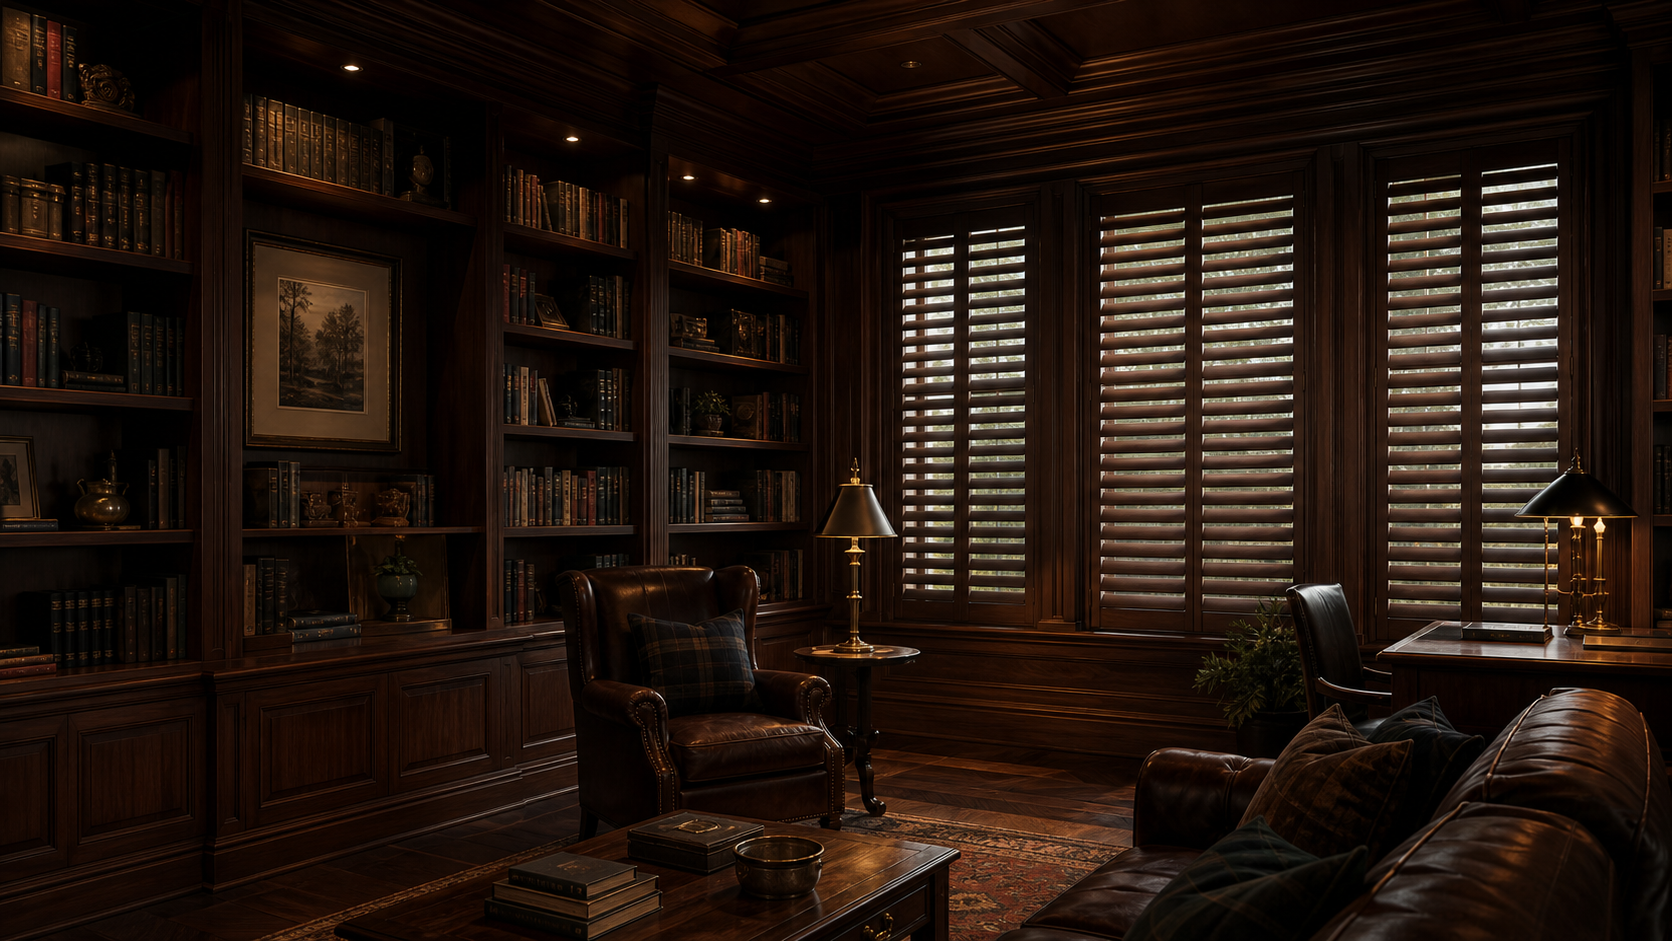
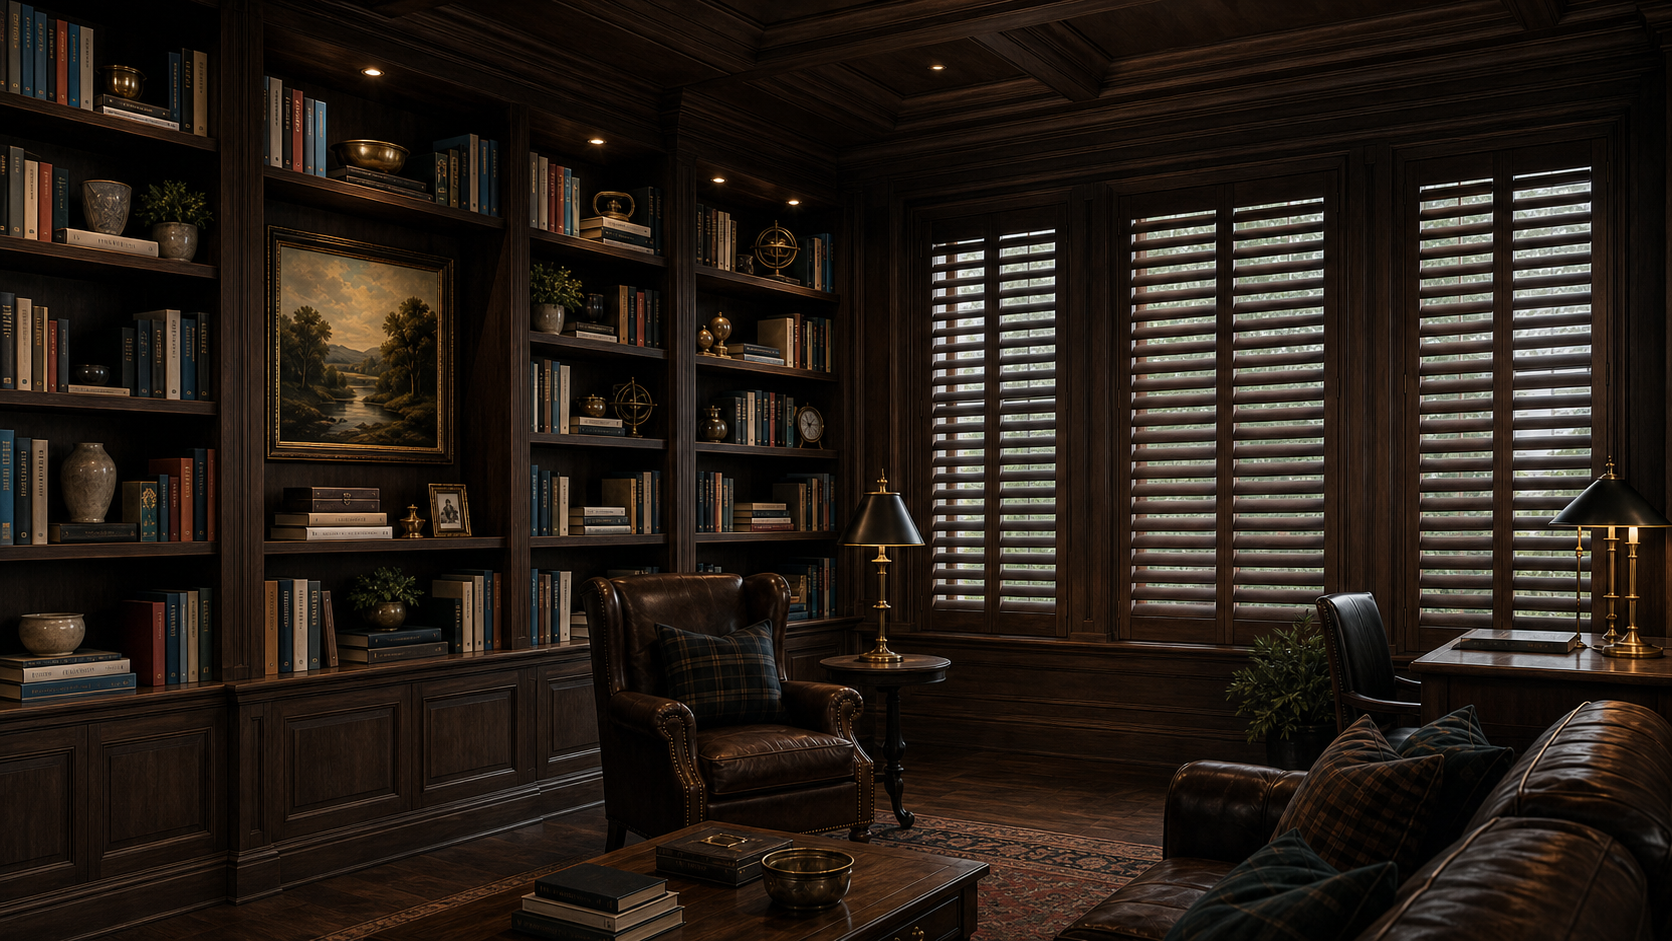
Prepare 805 site go-live updates

diff --git a/src/components/HeaderScrollState.tsx b/src/components/HeaderScrollState.tsx
@@ -2,6 +2,40 @@
 
 import { useEffect } from "react";
 
+const topRevealY = 8;
+const solidHeaderY = 48;
+const revealDelta = -4;
+
+type HeaderScrollClassState = {
+  isSolid: boolean;
+  shouldHide: boolean | null;
+};
+
+export function getHeaderScrollClassState(currentScrollY: number, lastScrollY: number): HeaderScrollClassState {
+  const normalizedScrollY = Math.max(currentScrollY, 0);
+  const scrollDelta = normalizedScrollY - Math.max(lastScrollY, 0);
+  const isAtTop = normalizedScrollY <= topRevealY;
+
+  if (isAtTop || scrollDelta < revealDelta) {
+    return {
+      isSolid: normalizedScrollY > solidHeaderY,
+      shouldHide: false
+    };
+  }
+
+  if (scrollDelta > 0) {
+    return {
+      isSolid: normalizedScrollY > solidHeaderY,
+      shouldHide: true
+    };
+  }
+
+  return {
+    isSolid: normalizedScrollY > solidHeaderY,
+    shouldHide: null
+  };
+}
+
 export function HeaderScrollState() {
   useEffect(() => {
     let frame = 0;
@@ -13,13 +47,13 @@ export function HeaderScrollState() {
     function updateHeaderState() {
       frame = 0;
       const currentScrollY = Math.max(window.scrollY, 0);
-      const scrollDelta = currentScrollY - lastScrollY;
+      const classState = getHeaderScrollClassState(currentScrollY, lastScrollY);
 
-      document.body.classList.toggle("site-header-solid", currentScrollY > 48);
+      document.body.classList.toggle("site-header-solid", classState.isSolid);
 
-      if (currentScrollY <= 96 || scrollDelta < -4) {
+      if (classState.shouldHide === false) {
         document.body.classList.remove("site-header-hidden");
-      } else if (scrollDelta > 6) {
+      } else if (classState.shouldHide === true) {
         document.body.classList.add("site-header-hidden");
       }
 

diff --git a/src/app/globals.css b/src/app/globals.css
@@ -6051,33 +6051,14 @@ body:has(.booking-page--focused) .assistant-widget {
   filter: none;
 }
 
-body:has(.home-editorial) .brand.brand--exact .brand-logo-exact,
-body.home-page-active .brand.brand--exact .brand-logo-exact {
-  width: clamp(190px, 14vw, 218px) !important;
-  transform: translateY(-5%) scale(1.53) !important;
-  transform-origin: top center;
-  filter: invert(1) drop-shadow(0 1px 0 rgba(0, 0, 0, 0.28));
-}
-
-body:has(.home-editorial).site-header-solid .brand.brand--exact .brand-logo-exact,
-body.home-page-active.site-header-solid .brand.brand--exact .brand-logo-exact {
-  width: clamp(142px, 10vw, 170px) !important;
-  filter: none;
+body:has(.home-editorial):not(.site-header-solid) .brand.brand--exact .brand-logo-exact,
+body.home-page-active:not(.site-header-solid) .brand.brand--exact .brand-logo-exact {
+  filter: brightness(0) invert(1) drop-shadow(0 1px 0 rgba(0, 0, 0, 0.28));
 }
 
 @media (max-width: 620px) {
   .brand.brand--exact .brand-logo-exact {
     width: clamp(116px, 30vw, 138px) !important;
-  }
-
-  body:has(.home-editorial) .brand.brand--exact .brand-logo-exact,
-  body.home-page-active .brand.brand--exact .brand-logo-exact {
-    width: clamp(96px, 28vw, 118px) !important;
-  }
-
-  body:has(.home-editorial).site-header-solid .brand.brand--exact .brand-logo-exact,
-  body.home-page-active.site-header-solid .brand.brand--exact .brand-logo-exact {
-    width: clamp(104px, 28vw, 128px) !important;
   }
 
   body:has(.home-editorial) .site-masthead,

diff --git a/src/components/PageSections.tsx b/src/components/PageSections.tsx
@@ -289,10 +289,10 @@ const homeHeroSlides = (page: SitePage): HomeHeroSlide[] => [
     imageAlt: "Coastal living room with wide roller shades and ocean view"
   },
   {
-    label: "Bamboo Shades",
-    tagline: "Bring color and natural texture into the light.",
-    image: "/images/homepage-flow/bamboo-shades.jpg",
-    imageAlt: "Bright living room with colored woven bamboo shades and linen drapery"
+    label: "Vertical Cellular Shades",
+    tagline: "Insulated comfort for wide patio doors.",
+    image: "/images/homepage-flow/vertical-cellular-shades.png",
+    imageAlt: "Sliding glass door fitted with vertical cellular shades"
   },
   {
     label: "Stained Wood Shutters",
@@ -341,12 +341,6 @@ const homeHeroSlides = (page: SitePage): HomeHeroSlide[] => [
     tagline: "Wide panels that make sliding doors feel clean.",
     image: "/images/homepage-flow/panel-track-shades.png",
     imageAlt: "Sliding glass door fitted with wide panel track shades"
-  },
-  {
-    label: "Vertical Cellular Shades",
-    tagline: "Insulated comfort for wide patio doors.",
-    image: "/images/homepage-flow/vertical-cellular-shades.png",
-    imageAlt: "Sliding glass door fitted with vertical cellular shades"
   },
   {
     label: "Skylight Shades",

diff --git a/src/components/HeaderScrollState.test.ts b/src/components/HeaderScrollState.test.ts
@@ -1,0 +1,25 @@
+import { describe, expect, it } from "vitest";
+import { getHeaderScrollClassState } from "./HeaderScrollState";
+
+describe("getHeaderScrollClassState", () => {
+  it("keeps the header visible at the top of the home page", () => {
+    expect(getHeaderScrollClassState(0, 0)).toEqual({
+      isSolid: false,
+      shouldHide: false
+    });
+  });
+
+  it("hides the header on the first downward scroll away from the top", () => {
+    expect(getHeaderScrollClassState(60, 0)).toEqual({
+      isSolid: true,
+      shouldHide: true
+    });
+  });
+
+  it("reveals the solid header when the visitor scrolls back up", () => {
+    expect(getHeaderScrollClassState(140, 180)).toEqual({
+      isSolid: true,
+      shouldHide: false
+    });
+  });
+});
